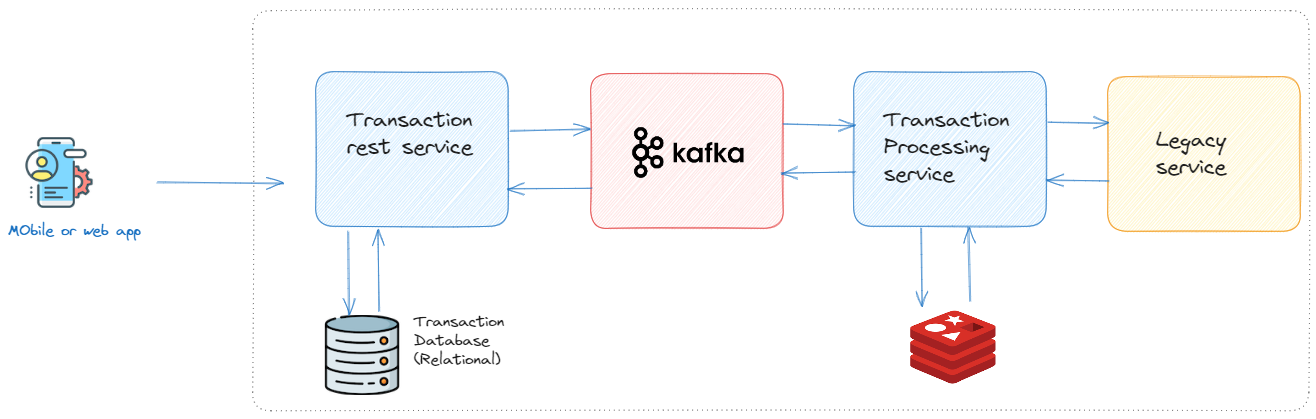
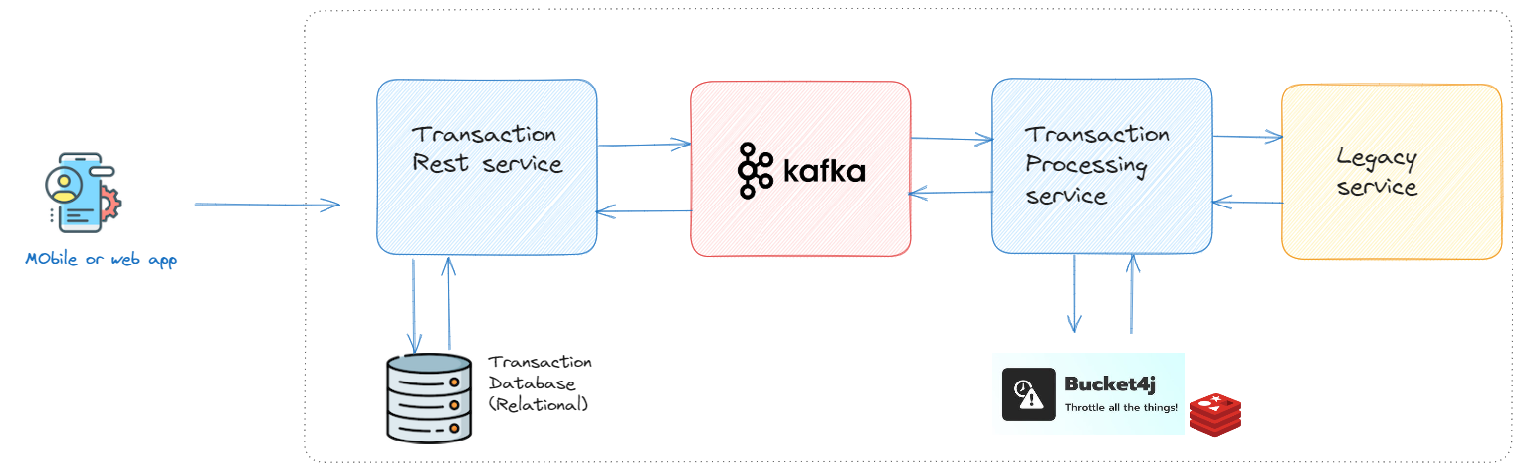
Updating the document

diff --git a/README.md b/README.md
@@ -2,10 +2,11 @@
 
 ### Table of Contents
 - [Introduction](#introduction)
+- [Block-diagram](#block-diagram)
+- [Sequence Diagram](#sequence-diagram)
 - [Pre-requisite](#pre-requisite)  
 - [Module anatomy](#module-anatomy)
 - [Local Run](#local-run)
-- [Sequence Diagram](#sequence-diagram)
 - [Steps to verify the flow](#steps-to-verify-the-flow)
 - [Design Decisions](#design-decisions)
 - [Assumptions](#assumptions)
@@ -13,7 +14,25 @@
 
 ## Introduction
 
-Microservices Architecture approach that enhances scalability, integrates with legacy systems, and ensures real-time services.
+Microservices Architecture approach of a scalable REST API for a banking
+system that handles debit and credit transactions for individual accounts. The goal is to
+create a system that efficiently manages a large volume of requests in parallel without
+overwhelming an existing legacy system with limited throughput capabilities. Key concepts
+employed in this solution include:
+- Microservices: Breaking down the system into smaller, independent services.
+- CQRS (Command Query Responsibility Segregation): Separation of write
+(transaction) and read (balance) operations.
+- Kafka: Facilitating communication between microservices.
+- Event-Driven Architecture: Microservices communicate via events for scalability
+and maintainability.
+
+## Block-diagram
+
+![Link Name](./doc/Block-diagram.png)
+
+## Sequence Diagram
+
+![Link Name](./doc/ScalableBankingApi-highlevel.png)
 
 ## Pre-requisite
 
@@ -43,19 +62,22 @@ Please make sure your machine has the following things installed,
 ## Local Run 
 Steps to locally run the required applications,
   - Please run the below services,
-    - Using maven wrapper (maven wrapper doesn't need maven installation locally)
-      - Step 1: Open `terminal` and move to the `skiply-system` directory
-        - `cd {your-location}/skiply-system` 
+    - Using maven
+      - Step 1: Open `terminal` and move to the `zand-fund-transfer` directory
+        - `cd {your-location}/zand-fund-transfer` 
+      - Step 2: Build the `common-messaging` 
+        - `./mvn clean install --file ./common-mesaging/pom.xml`
 
       - Step 2: Run each of the below commands on a separate terminal,
-        - `./mvnw clean spring-boot:run --file ./kafka-server/pom.xml`  - recommended to start this first
-        - `./mvnw clean spring-boot:run --file ./transaction-rest-service/pom.xml`
-        - `./mvnw clean spring-boot:run --file ./transaction-proceessor/pom.xml`
-        - `./mvnw clean spring-boot:run --file ./legacy-service/pom.xml`
+        - `./mvn clean spring-boot:run --file ./kafka-server/pom.xml`  - recommended to start this first
+        - `./mvn clean spring-boot:run --file ./transaction-rest-service/pom.xml`
+        - `./mvn clean spring-boot:run --file ./transaction-proceessor/pom.xml`
+        - `./mvn clean spring-boot:run --file ./legacy-service/pom.xml`
 
        **(or)**
 
     - Using IDE as spring boot application,
+      - `common-messaging` - Build this repo first
       - `kafka-server` - recommended to start this first.
       - `transaction-rest-service`
       - `transaction-processor`
@@ -64,12 +86,6 @@ Steps to locally run the required applications,
   - Once all the services are up & running, then go to service specific Swagger UI to execute the flows as 
 described below.
 
-## Sequence Diagram
-
-```mermaid
-sequenceDiagram
-```
-
 ## Steps to verify the flow
 
 ## Design Decisions
@@ -77,4 +93,5 @@ sequenceDiagram
 ## Assumptions
 
 ## In-progress items
+- unit
 
